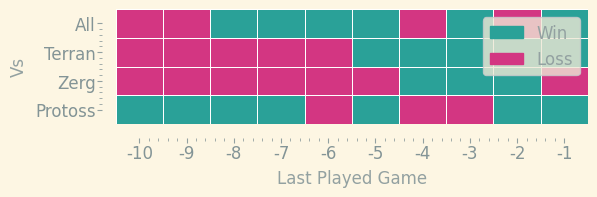
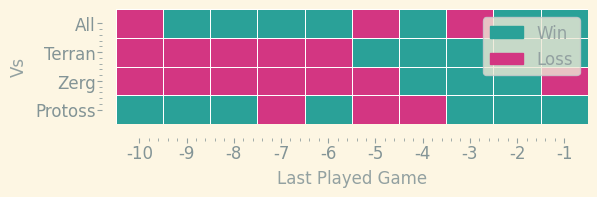
running on push

diff --git a/docs/index.md b/docs/index.md
@@ -18,7 +18,7 @@ layout: home
   <tbody>
     <tr>
       <td>Matches Played</td>
-      <td>1160</td>
+      <td>1161</td>
     </tr>
     <tr>
       <td>MMR Gained</td>
@@ -114,7 +114,7 @@ layout: home
 
 | Race    |   Wins |   Losses |   Total |   Win Rate (%) |   MMR Gained |   MMR Lost |
 |:--------|-------:|---------:|--------:|---------------:|-------------:|-----------:|
-| Protoss |    206 |      258 |     464 |        44.3966 |         3600 |       4675 |
+| Protoss |    206 |      259 |     465 |        44.3011 |         3600 |       4675 |
 | Terran  |    122 |      164 |     286 |        42.6573 |         3177 |       2346 |
 | Zerg    |    242 |      167 |     409 |        59.1687 |         3724 |       3850 |
 
